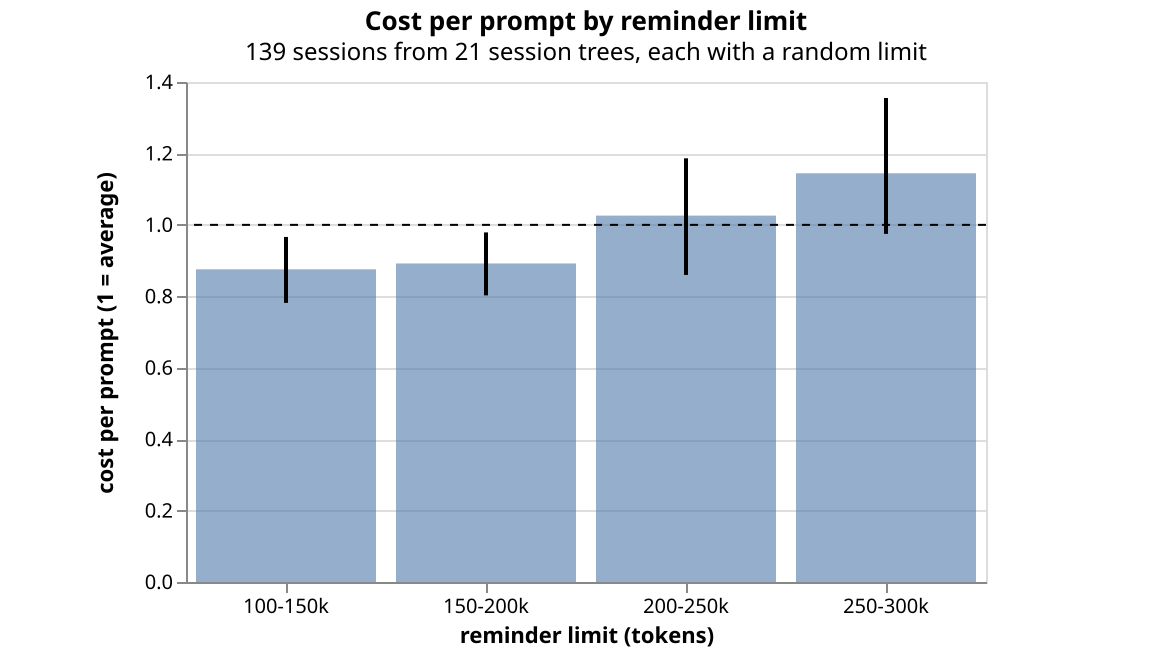
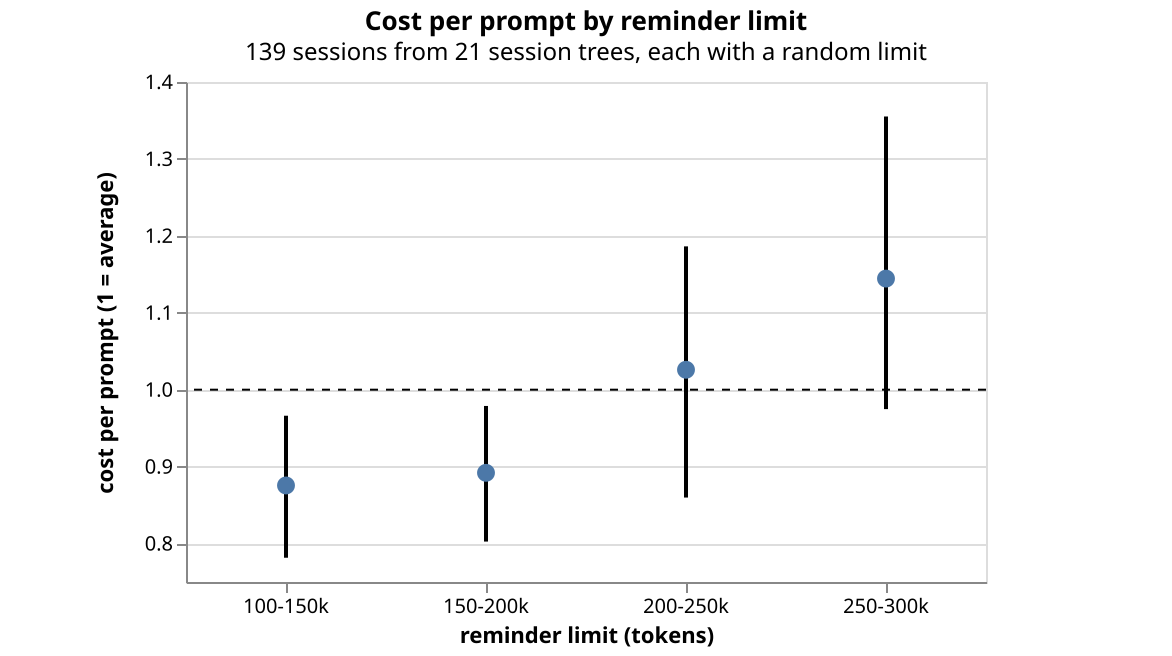
README: documentation first, then the measurements behind the defaults

diff --git a/README.md b/README.md
@@ -29,11 +29,11 @@ Map and search results provide the IDs to read next.
 
 ## Context reminders
 
-From **150k tokens or 75% of the window** (whichever comes first), the extension reminds the agent to fold while it works with tools. The reminder says how many tokens a fold should free: about 35% of the context ([why](#when-a-fold-pays-off)), counted like the map counts them. If the agent does not fold, it reminds again after another 15k tokens. In practice it folds at the first reminder 77% of the time. Reminders never fold anything themselves.
+From **150k tokens or 75% of the window** (whichever comes first), the extension reminds the agent to fold. The reminder says how much a fold should free: about 35% of the context. If the agent does not fold, it reminds again after another 15k tokens. Reminders never fold anything themselves.
 
-![Cost per prompt of 139 sessions, each with a random reminder limit between 100k and 300k tokens, in four bars of 50k. The two bars below 200k are about 0.9, the bars above rise to about 1.15.](docs/reminder-limit.png)
+Pi's own compaction, including `/compact`, is blocked. If the agent does not fold enough, the context can still overflow.
 
-Why 150k: in this experiment, each session got a random limit between 100k and 300k tokens. Each bar shows what the sessions with a limit in that band cost per prompt, where 1 is the average for their model. The whisker is the 90% interval. Limits below 200k cost about 10% less than average, 250–300k about 15% more. A likely reason: the bigger the context, the more a cache miss costs when the agent continues after a pause. 21 session trees are still few, so the real difference may be smaller. 150k sits in the cheaper range.
+## Settings
 
 Change the limits in `~/.pi/agent/infinite-context/settings.json` and restart Pi:
 
@@ -41,9 +41,7 @@ Change the limits in `~/.pi/agent/infinite-context/settings.json` and restart Pi
 { "nudgeAtTokens": 150000, "nudgeAtPercent": 75 }
 ```
 
-`nudgeAtTokens` can also be a range like `[100000, 300000]`. Each session then draws its own limit, which is how the experiment above works. Sessions record their limits and reminders, so tools like [context-efficiency](https://github.com/fdietze/context-efficiency) can analyze them.
-
-Models can have their own limits, keyed by exact `provider/id` like Pi's `compaction.modelOverrides`. Each field falls back to the top-level value, then to the default:
+Models can have their own limits, keyed by exact `provider/id`. Missing fields fall back to the top-level values:
 
 ```json
 {
@@ -52,14 +50,22 @@ Models can have their own limits, keyed by exact `provider/id` like Pi's `compac
 }
 ```
 
-Pi's own compaction, including `/compact`, is blocked. If the agent does not fold enough, the context can still overflow.
+`nudgeAtTokens` can also be a range like `[100000, 300000]`. Each session then gets a random limit from it. Sessions record their limits, so [context-efficiency](https://github.com/fdietze/context-efficiency) can compare them.
 
-## When a fold pays off
+## Why these defaults
 
-Providers cache the start of a prompt, and cached tokens cost about a tenth of uncached ones. A fold changes the prompt, so the next request is mostly uncached. Altogether, a fold costs about ten cached reads of the whole context. After that, every request reads fewer tokens. So a fold pays off when (share freed) × (requests until the next fold) is more than about 10.
+The charts come from the author's sessions with Claude and GPT models. They measure cost, not the quality of the agent's work.
+
+### Remind at 150k
+
+![Cost per prompt of 139 sessions, each with a random reminder limit between 100k and 300k tokens, in four ranges of 50k. The two points below 200k are about 0.9, the points above rise to about 1.15. Each point has a vertical line for its uncertainty.](docs/reminder-limit.png)
+
+Each session got a random limit between 100k and 300k tokens. Each dot shows what the sessions in that range cost per prompt, where 1 is the average; the line around it shows the uncertainty. Below 200k, sessions cost about 10% less. At 250–300k, they cost about 15% more, probably because a cache miss after a pause costs more when the context is big. The data is still small, but 150k sits in the cheaper range.
+
+### Free about 35% per fold
+
+Providers cache the start of a prompt, and cached tokens cost about a tenth. A fold changes the prompt, so the next request is mostly uncached. In total, a fold costs about ten cached reads of the whole context. After that, every request is cheaper.
 
 ![Dollars saved per dollar spent for each fold, against the share of context it freed, on a log scale. The line for all folds rises from about 0.2 below 20% freed, crosses 1 between 20% and 30%, and reaches about 14 at 70-80%.](docs/fold-payoff.png)
 
-Each dot is one fold. The further right, the more of the context it freed. The higher, the more dollars it saved per dollar it cost. The line shows all folds together, and above the dashed line a fold paid off. Folds that free less than 20% lose money. From 30%, folds pay off on average, because a few dozen requests usually follow. At 70–80%, they return about 14×. The chart measures what a fold frees after its own overhead: the map and the summary take about 5% of the context. So the reminder asks for about 35%.
-
-Both charts use the author's sessions with Claude and GPT models: the last 90 days for folds, and since 2026-10-26 for the limit experiment. They measure cost only, not the quality of the agent's work. They come from [context-efficiency](https://github.com/fdietze/context-efficiency).
+Each dot is one fold: how much of the context it freed, and how many dollars it saved per dollar it cost. Folds that free less than 20% lose money. From 30%, they pay off on average; at 70–80%, they return about 14×. The map and the summary take about 5% of the context, so the reminder asks for 35%.

diff --git a/AGENTS.md b/AGENTS.md
@@ -2,12 +2,11 @@
 
 Use simple, accurate English and keep both documents very concise.
 
-- `README.md`: only a short purpose description, installation, the diagram with a short explanation below it, tools, context reminders, and measured prefix-cache behavior, in that order.
+- `README.md`: only a short purpose description, installation, the diagram with a short explanation below it, tools, context reminders, settings, and the measurements behind the defaults, in that order.
 - `DESIGN.md`: only vocabulary, data structure, algebra, and invariants. Check the model against the code.
 
 # Repository map
 
-- `README.md`: purpose, installation, folding diagram, tools, context reminders, and prefix caching.
 - `docs/publishing.md`: CI release semantics and one-time npm Trusted Publisher setup.
 - `.github/workflows/ci.yml`: checks and serialized OIDC publishing on pushes to `main`.
 - `scripts/publish.ts`: CI-only versioning, tarball integrity checks and release-tag selection.
